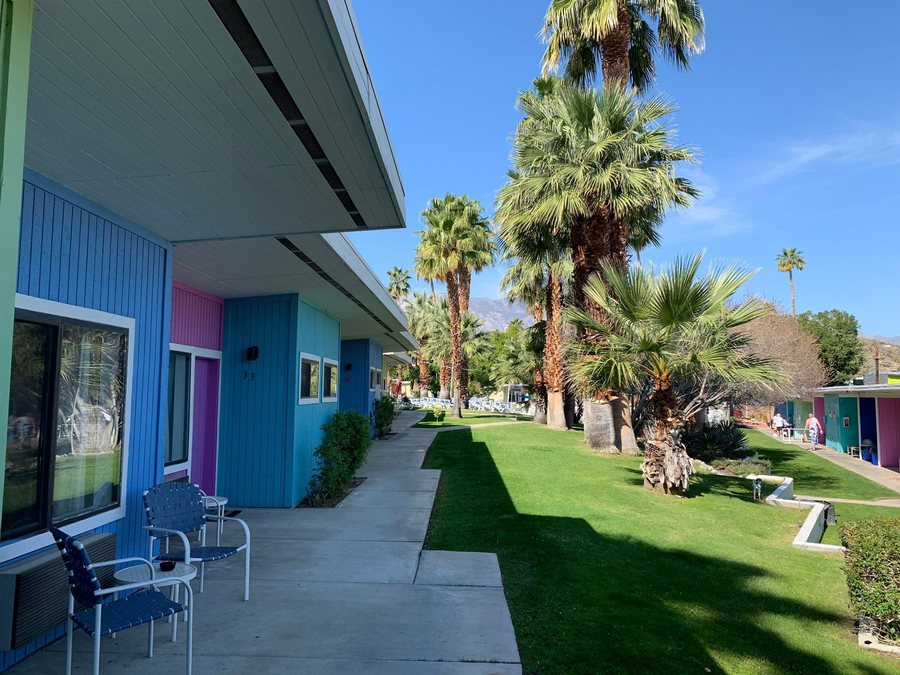
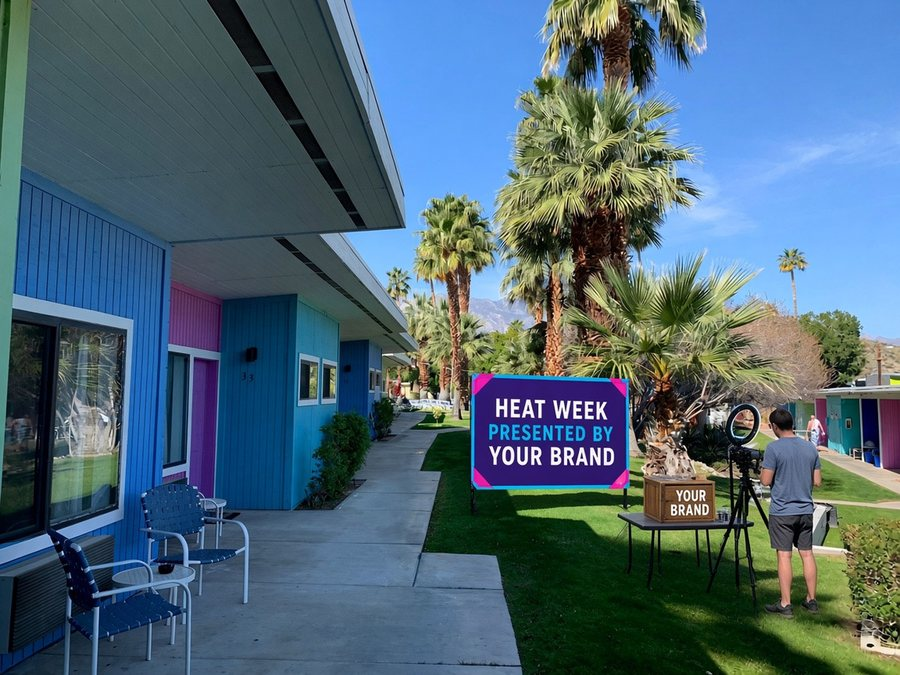
Replace the static site with the updated build.
Swap index.html and assets for the new zip, drop files that are no longer in it, and leave .nojekyll and README.md in place.

diff --git a/index.html b/index.html
@@ -249,13 +249,13 @@ tbody tr:last-child td,tbody tr:last-child th{font-weight:700;color:var(--cyan)}
 <p class="hero-sup">Presented by DucatiX. Built for partners who want to be seen by fans at the party, and by creators during the residency that follows.</p>
 <div class="cta-row"><a class="btn btn-pd" href="#inquire">Request a partnership deck</a><a class="btn btn-ghost" href="#tiers">See the tiers</a></div>
 <p class="venue-line">CCBC Resort Hotel · Palm Springs, CA</p></div>
-<figure class="hero-art"><img src="assets/hero.jpg" alt="Split key art: neon Porn Disco pool party at night beside a sunlit Heat Week desert pool, with both date ranges" width="1280" height="504"></figure>
+<figure class="hero-art"><img src="assets/hero.jpg" alt="Porn Disco plus Heat Week banner: Sean Xavier, Beau Butler, Rocky Unleashed and Jaxx Cody in front of creator silhouettes" width="1280" height="720"></figure>
 </div></section>
 <section class="photostrip" aria-label="CCBC Resort Hotel photos"><div class="strip-row"><figure><img src="assets/ccbc_expedia_01.jpg" alt="CCBC Resort Hotel: the pool after dark" loading="lazy"><figcaption>The pool after dark</figcaption></figure><figure><img src="assets/ccbc_expedia_03.jpg" alt="CCBC Resort Hotel: neon palms" loading="lazy"><figcaption>Neon palms</figcaption></figure><figure><img src="assets/ccbc_expedia_06.jpg" alt="CCBC Resort Hotel: the lawn at night" loading="lazy"><figcaption>The lawn at night</figcaption></figure><figure><img src="assets/ccbc_expedia_04.jpg" alt="CCBC Resort Hotel: runway bar" loading="lazy"><figcaption>Runway Bar</figcaption></figure><figure><img src="assets/ccbc_expedia_07.jpg" alt="CCBC Resort Hotel: lit up till late" loading="lazy"><figcaption>Lit up till late</figcaption></figure><figure><img src="assets/ccbc_expedia_02.jpg" alt="CCBC Resort Hotel: garden paths" loading="lazy"><figcaption>Garden paths</figcaption></figure></div><p class="strip-note">Real photos of CCBC Resort Hotel, Palm Springs, after dark</p></section>
 <section id="events" class="section"><div class="wrap"><p class="eyebrow">Two moments, kept distinct</p>
 <h2>A weekend the fans feel.<br>A week the industry works.</h2><p class="section-lede">Porn Disco and Heat Week share a resort and a week. They are not the same event, and they are not sold as one blur.</p>
 <div class="duo">
-<article class="event event-pd"><figure class="event-photo"><img src="assets/ccbc_expedia_01.jpg" alt="CCBC pool at night with the neon CCBC sign and lit palms" loading="lazy" style="object-position:center 65%"></figure><div class="event-top"><span class="tag">B2C · Pool party + nightlife</span><h3>Porn Disco</h3><p class="event-dates">Friday, March 5 to Sunday, March 7, 2027</p></div>
+<article class="event event-pd"><figure class="event-photo"><img src="assets/night_pool_branded.jpg" alt="CCBC pool at night with sponsor banners and the neon CCBC sign" loading="lazy" style="object-position:center 60%"></figure><div class="event-top"><span class="tag">B2C · Pool party + nightlife</span><h3>Porn Disco</h3><p class="event-dates">Friday, March 5 to Sunday, March 7, 2027</p></div>
 <p><strong>Porn Disco</strong> is the fan-facing party. Friday, March 5 to Sunday, March 7, 2027, at CCBC Resort Hotel, a clothing-optional gay resort in Palm Springs. This is the public pool party and night-life weekend: a Meat &amp; Greet kickoff, foam and pool, a DJ, live shows, and late-night energy that runs from day into night. It is where fans meet the talent, and where a brand can live on the grounds, on the stage, and in the content that leaves the party.</p><ul class="ticks"><li>Fans meet the talent</li><li>Foam, pool, DJ and live shows</li><li>Day-into-night energy</li></ul></article>
 <article class="event event-hw"><figure class="event-photo"><img src="assets/ccbc_expedia_13.jpg" alt="Pink CCBC guest room exterior with a patio" loading="lazy"></figure><div class="event-top"><span class="tag">B2B · Creator residency + collab house</span><h3>Heat Week</h3><p class="event-dates">Monday, March 8 to Friday, March 12, 2027</p></div>
 <p><strong>Heat Week</strong> is the industry week that follows. Monday, March 8 to Friday, March 12, 2027, at the same resort. This is a creator residency and collab house: a hosted group of performers staying at the resort, filming throughout the property, and a quieter, more useful week for brands that want creator access, on-site production, and recruitment, not just a logo on a banner.</p><ul class="ticks"><li>Creator access</li><li>On-site production</li><li>Recruitment</li></ul></article>
@@ -264,11 +264,11 @@ tbody tr:last-child td,tbody tr:last-child th{font-weight:700;color:var(--cyan)}
 </div></section>
 <section id="own" class="section section-own"><div class="wrap"><p class="eyebrow">Where your brand lives</p><h2>What your brand can own</h2><p class="section-lede">24 ways in, across the party weekend, the creator week and every morning in between. Each one comes with its own placement at CCBC.</p>
 <div class="own-group own-party"><div class="own-head"><h3>At the Party</h3><span class="own-dates">Porn Disco · Fri Mar 5 to Sun Mar 7</span><span class="own-count">16 activations</span></div><div class="own-grid">
-<article class="act"><figure><img src="assets/act_01.jpg" alt="Meet the Stars photo booth: CCBC Resort Hotel" loading="lazy"><span class="act-n">01</span></figure><div class="act-copy"><h4>Meet the Stars photo booth</h4><p class="act-desc">Your logo in every fan photo with the talent at the Friday Meat &amp; Greet.</p><p class="act-feel">Fans lined up, phones out, stars grinning beside your logo.</p></div></article>
+<article class="act"><figure><img src="assets/act_01.jpg" alt="Meet the Stars photo booth: branded placement at CCBC" loading="lazy"><span class="act-n">01</span></figure><div class="act-copy"><h4>Meet the Stars photo booth</h4><p class="act-desc">Your logo in every fan photo with the talent at the Friday Meat &amp; Greet.</p><p class="act-feel">Fans lined up, phones out, stars grinning beside your logo.</p></div></article>
 <article class="act"><figure><img src="assets/act_02.jpg" alt="Meat &amp; Greet step and repeat: CCBC Resort Hotel" loading="lazy"><span class="act-n">02</span></figure><div class="act-copy"><h4>Meat &amp; Greet step and repeat</h4><p class="act-desc">Your brand behind the talent the moment the weekend opens.</p><p class="act-feel">Flashbulbs, first looks, the weekend officially starts in front of your wall.</p></div></article>
 <article class="act"><figure><img src="assets/act_03.jpg" alt="Early-entry Meat &amp; Greet: CCBC Resort Hotel" loading="lazy"><span class="act-n">03</span></figure><div class="act-copy"><h4>Early-entry Meat &amp; Greet</h4><p class="act-desc">Host the VIP early entry, so fans meet the stars through your brand first.</p><p class="act-feel">The gate opens early and your VIPs walk in first, wristbands on.</p></div></article>
-<article class="act"><figure><img src="assets/act_04.jpg" alt="Pool banners: CCBC Resort Hotel" loading="lazy"><span class="act-n">04</span></figure><div class="act-copy"><h4>Pool banners</h4><p class="act-desc">Your logo around the pool all day, in every shot of the crowd.</p><p class="act-feel">Sun, skin and splash, with your logo framing every pool shot.</p></div></article>
-<article class="act"><figure><img src="assets/act_05.jpg" alt="Go-go boxes: CCBC Resort Hotel" loading="lazy"><span class="act-n">05</span></figure><div class="act-copy"><h4>Go-go boxes</h4><p class="act-desc">Your brand under the dancers, at the center of the action.</p><p class="act-feel">Dancers above the crowd, all eyes up, your brand right underneath.</p></div></article>
+<article class="act"><figure><img src="assets/act_04.jpg" alt="Pool banners: branded placement at CCBC" loading="lazy"><span class="act-n">04</span></figure><div class="act-copy"><h4>Pool banners</h4><p class="act-desc">Your logo around the pool all day, in every shot of the crowd.</p><p class="act-feel">Sun, skin and splash, with your logo framing every pool shot.</p></div></article>
+<article class="act"><figure><img src="assets/act_05.jpg" alt="Go-go boxes: branded placement at CCBC" loading="lazy"><span class="act-n">05</span></figure><div class="act-copy"><h4>Go-go boxes</h4><p class="act-desc">Your brand under the dancers, at the center of the action.</p><p class="act-feel">Dancers above the crowd, all eyes up, your brand right underneath.</p></div></article>
 <article class="act"><figure><img src="assets/act_06.jpg" alt="DJ booth: CCBC Resort Hotel" loading="lazy"><span class="act-n">06</span></figure><div class="act-copy"><h4>DJ booth</h4><p class="act-desc">Your name on the booth that runs the night.</p><p class="act-feel">Bass drops, hands up, your name lit behind the DJ.</p></div></article>
 <article class="act"><figure><img src="assets/act_07.jpg" alt="Live shows and product demos: CCBC Resort Hotel" loading="lazy"><span class="act-n">07</span></figure><div class="act-copy"><h4>Live shows and product demos</h4><p class="act-desc">Your product on stage in front of the crowd.</p><p class="act-feel">The crowd pushes close as your product goes live on stage.</p></div></article>
 <article class="act"><figure><img src="assets/act_08.jpg" alt="Branded shot bartenders: CCBC Resort Hotel" loading="lazy"><span class="act-n">08</span></figure><div class="act-copy"><h4>Branded shot bartenders</h4><p class="act-desc">Your brand served hand to hand, all party long.</p><p class="act-feel">A shirtless bartender, a tray of shots, a cheer every round.</p></div></article>
@@ -276,13 +276,13 @@ tbody tr:last-child td,tbody tr:last-child th{font-weight:700;color:var(--cyan)}
 <article class="act"><figure><img src="assets/act_10.jpg" alt="VIP lounge and Runway Bar: CCBC Resort Hotel" loading="lazy"><span class="act-n">10</span></figure><div class="act-copy"><h4>VIP lounge and Runway Bar</h4><p class="act-desc">Your brand on the spaces where talent and VIPs hang out.</p><p class="act-feel">The talent&#x27;s private corner, with your brand on the bar.</p></div></article>
 <article class="act"><figure><img src="assets/act_11.jpg" alt="Live cam suite takeover: CCBC Resort Hotel" loading="lazy"><span class="act-n">11</span></figure><div class="act-copy"><h4>Live cam suite takeover</h4><p class="act-desc">A branded suite broadcasting live from the party all weekend.</p><p class="act-feel">On air from the party, with fans online watching the weekend through your suite.</p></div></article>
 <article class="act"><figure><img src="assets/act_12.jpg" alt="Themed branded rooms: CCBC Resort Hotel" loading="lazy"><span class="act-n">12</span></figure><div class="act-copy"><h4>Themed branded rooms</h4><p class="act-desc">A whole room built around your brand.</p><p class="act-feel">Guests walk in and they&#x27;re inside your brand.</p></div></article>
-<article class="act"><figure><img src="assets/act_13.jpg" alt="In-room TVs: CCBC Resort Hotel" loading="lazy"><span class="act-n">13</span></figure><div class="act-copy"><h4>In-room TVs</h4><p class="act-desc">Your ad playing in guest rooms all weekend.</p><p class="act-feel">Back in the room, your ad is the first thing on screen.</p></div></article>
+<article class="act"><figure><img src="assets/act_13.jpg" alt="In-room TVs: branded placement at CCBC" loading="lazy"><span class="act-n">13</span></figure><div class="act-copy"><h4>In-room TVs</h4><p class="act-desc">Your ad playing in guest rooms all weekend.</p><p class="act-feel">Back in the room, your ad is the first thing on screen.</p></div></article>
 <article class="act"><figure><img src="assets/act_14.jpg" alt="Room gifts: CCBC Resort Hotel" loading="lazy"><span class="act-n">14</span></figure><div class="act-copy"><h4>Room gifts</h4><p class="act-desc">Your product waiting in guest rooms.</p><p class="act-feel">Your gift is waiting on the pillow when they check in.</p></div></article>
 <article class="act"><figure><img src="assets/act_15.jpg" alt="Sponsor booths: CCBC Resort Hotel" loading="lazy"><span class="act-n">15</span></figure><div class="act-copy"><h4>Sponsor booths</h4><p class="act-desc">Your own space on the grounds to meet guests face to face.</p><p class="act-feel">A meet-up spot on the grounds where guests stop to talk.</p></div></article>
 <article class="act"><figure><img src="assets/act_16.jpg" alt="Travel and bathhouse activations: CCBC Resort Hotel" loading="lazy"><span class="act-n">16</span></figure><div class="act-copy"><h4>Travel and bathhouse activations</h4><p class="act-desc">Packages and perks that bring guests to Palm Springs and keep the night going.</p><p class="act-feel">Guests come for the party, stay for the trip, and end the night at the bathhouse.</p></div></article>
 </div></div>
 <div class="own-group own-hw"><div class="own-head"><h3>At Heat Week</h3><span class="own-dates">Heat Week · Mon Mar 8 to Fri Mar 12</span><span class="own-count">7 activations</span></div><div class="own-grid">
-<article class="act"><figure><img src="assets/act_17.jpg" alt="Residency sponsorship: CCBC Resort Hotel" loading="lazy"><span class="act-n">17</span></figure><div class="act-copy"><h4>Residency sponsorship</h4><p class="act-desc">Your name on a week of 15+ creators living and working at the resort.</p><p class="act-feel">Fifteen creators, one week, your name over all of it.</p></div></article>
+<article class="act"><figure><img src="assets/act_17.jpg" alt="Residency sponsorship: branded placement at CCBC" loading="lazy"><span class="act-n">17</span></figure><div class="act-copy"><h4>Residency sponsorship</h4><p class="act-desc">Your name on a week of 15+ creators living and working at the resort.</p><p class="act-feel">Fifteen creators, one week, your name over all of it.</p></div></article>
 <article class="act"><figure><img src="assets/act_18.jpg" alt="Product in creator content: CCBC Resort Hotel" loading="lazy"><span class="act-n">18</span></figure><div class="act-copy"><h4>Product in creator content</h4><p class="act-desc">Your product in the content made on site, filmed throughout the property.</p><p class="act-feel">Cameras roll across the resort and your product is in frame.</p></div></article>
 <article class="act"><figure><img src="assets/act_19.jpg" alt="Recruiting and onboarding: CCBC Resort Hotel" loading="lazy"><span class="act-n">19</span></figure><div class="act-copy"><h4>Recruiting and onboarding</h4><p class="act-desc">Time with creators on site to sign them to your platform.</p><p class="act-feel">Coffee, poolside and real conversations that end in sign-ups.</p></div></article>
 <article class="act"><figure><img src="assets/act_20.jpg" alt="Live cam suites: CCBC Resort Hotel" loading="lazy"><span class="act-n">20</span></figure><div class="act-copy"><h4>Live cam suites</h4><p class="act-desc">A broadcast residency, with creators streaming from the resort all week.</p><p class="act-feel">Lights on, creators live from the resort all week.</p></div></article>
@@ -291,10 +291,10 @@ tbody tr:last-child td,tbody tr:last-child th{font-weight:700;color:var(--cyan)}
 <article class="act"><figure><img src="assets/act_23.jpg" alt="Heat Week partner list: CCBC Resort Hotel" loading="lazy"><span class="act-n">23</span></figure><div class="act-copy"><h4>Heat Week partner list</h4><p class="act-desc">Your logo on the official partner list for the week.</p><p class="act-feel">Your logo on the wall every creator walks past.</p></div></article>
 </div></div>
 <div class="own-group own-week"><div class="own-head"><h3>Across the week</h3><span class="own-dates">Mar 5 to 12</span><span class="own-count">1 activation</span></div><div class="own-grid">
-<article class="act"><figure><img src="assets/act_24.jpg" alt="Naked Pornstar Morning Yoga: CCBC Resort Hotel" loading="lazy"><span class="act-n">24</span></figure><div class="act-copy"><h4>Naked Pornstar Morning Yoga</h4><p class="act-desc">A named morning session your brand presents.</p><p class="act-feel">Sunrise on the lawn, mats down, a naked class under your banner.</p></div></article>
+<article class="act"><figure><img src="assets/act_24.jpg" alt="Naked Pornstar Morning Yoga: branded placement at CCBC" loading="lazy"><span class="act-n">24</span></figure><div class="act-copy"><h4>Naked Pornstar Morning Yoga</h4><p class="act-desc">A named morning session your brand presents.</p><p class="act-feel">Sunrise on the lawn, mats down, a naked class under your banner.</p></div></article>
 </div></div>
-<p class="fineprint">Sponsor placements show YOUR LOGO HERE until a partner signs.</p></div></section>
-<section id="tiers" class="section section-photo" style="--bg:url(assets/ccbc_expedia_01.jpg)"><div class="wrap"><p class="eyebrow">Partnership levels</p><h2>Partnership tiers</h2><p class="section-lede">One exclusive Platinum. Two Gold. Silver and Bronze stay open so more than one partner can come in at those levels.</p><div class="tiers">
+<p class="fineprint">Sponsor placements show placeholder branding until a partner signs.</p></div></section>
+<section id="tiers" class="section section-photo" style="--bg:url(assets/night_pool_branded.jpg)"><div class="wrap"><p class="eyebrow">Partnership levels</p><h2>Partnership tiers</h2><p class="section-lede">One exclusive Platinum. Two Gold. Silver and Bronze stay open so more than one partner can come in at those levels.</p><div class="tiers">
 <article class="tier tier-platinum"><div class="tier-head"><h3>Platinum</h3><span class="slots">1 partner</span></div>
 <p class="price">$12,000 to $15,000</p><p class="cov cov-both">Both events</p><p>The presenting partner for the week. Category exclusivity at the top of the house. Title or stage presence, the strongest on-site footprint, in-room TVs playing sponsor ads all weekend, a branded room, room gift placement, and first right to the largest activations. Runs across both Porn Disco and Heat Week.</p></article>
 <article class="tier tier-gold"><div class="tier-head"><h3>Gold</h3><span class="slots">2 partners</span></div>
@@ -318,13 +318,13 @@ tbody tr:last-child td,tbody tr:last-child th{font-weight:700;color:var(--cyan)}
 <tr><th scope="row">Event coverage</th><td>Both events</td><td>Both events</td><td>Your choice of Porn Disco or Heat Week</td><td>Your choice of Porn Disco or Heat Week</td></tr>
 </tbody></table></div></details>
 </div></section>
-<section id="talent" class="section section-alt"><div class="wrap"><p class="eyebrow">Faces of the week</p><h2>The faces of the week</h2>
+<section id="talent" class="section section-alt"><div class="wrap"><p class="eyebrow">Faces of the week</p><h2></h2>
 <div class="crowd-head"><p class="crowd-n"><span>15+</span>creators on site all week</p><p class="section-lede">From the Friday Meat &amp; Greet through the last day of Heat Week, a working group of 15+ creators stays at the resort. They party with the fans over the weekend, then make content across the property all week. The four poster boys lead the lineup.</p></div>
 <p class="sub-eyebrow">Headliners</p>
 <div class="posters"><figure class="poster"><img src="assets/poster2_sean_xavier.jpg" alt="Porn Disco 2027 poster: Sean Xavier, poster boy" loading="lazy" width="864" height="864"><figcaption><span class="pname">Sean Xavier</span></figcaption></figure><figure class="poster"><img src="assets/poster2_beau_butler.jpg" alt="Porn Disco 2027 poster: Beau Butler, poster boy" loading="lazy" width="864" height="864"><figcaption><span class="pname">Beau Butler</span></figcaption></figure><figure class="poster"><img src="assets/poster2_jaxx_cody.jpg" alt="Porn Disco 2027 poster: Jaxx Cody, poster boy" loading="lazy" width="864" height="864"><figcaption><span class="pname">Jaxx Cody</span></figcaption></figure><figure class="poster"><img src="assets/poster2_rocky_unleashed.jpg" alt="Porn Disco 2027 poster: Rocky Unleashed, poster boy" loading="lazy" width="864" height="864"><figcaption><span class="pname">Rocky Unleashed</span></figcaption></figure></div>
 <p class="sub-eyebrow">The rest of the house</p>
 <div class="crowd" aria-label="More creators to be announced"><div class="sil"><svg viewBox="0 0 100 100" aria-hidden="true" focusable="false"><circle cx="50" cy="34" r="17"/><path d="M14 100c0-24 16-40 36-40s36 16 36 40z"/></svg><span>To be announced</span></div><div class="sil"><svg viewBox="0 0 100 100" aria-hidden="true" focusable="false"><circle cx="50" cy="34" r="17"/><path d="M14 100c0-24 16-40 36-40s36 16 36 40z"/></svg><span>To be announced</span></div><div class="sil"><svg viewBox="0 0 100 100" aria-hidden="true" focusable="false"><circle cx="50" cy="34" r="17"/><path d="M14 100c0-24 16-40 36-40s36 16 36 40z"/></svg><span>To be announced</span></div><div class="sil"><svg viewBox="0 0 100 100" aria-hidden="true" focusable="false"><circle cx="50" cy="34" r="17"/><path d="M14 100c0-24 16-40 36-40s36 16 36 40z"/></svg><span>To be announced</span></div><div class="sil"><svg viewBox="0 0 100 100" aria-hidden="true" focusable="false"><circle cx="50" cy="34" r="17"/><path d="M14 100c0-24 16-40 36-40s36 16 36 40z"/></svg><span>To be announced</span></div><div class="sil"><svg viewBox="0 0 100 100" aria-hidden="true" focusable="false"><circle cx="50" cy="34" r="17"/><path d="M14 100c0-24 16-40 36-40s36 16 36 40z"/></svg><span>To be announced</span></div><div class="sil"><svg viewBox="0 0 100 100" aria-hidden="true" focusable="false"><circle cx="50" cy="34" r="17"/><path d="M14 100c0-24 16-40 36-40s36 16 36 40z"/></svg><span>To be announced</span></div><div class="sil"><svg viewBox="0 0 100 100" aria-hidden="true" focusable="false"><circle cx="50" cy="34" r="17"/><path d="M14 100c0-24 16-40 36-40s36 16 36 40z"/></svg><span>To be announced</span></div><div class="sil"><svg viewBox="0 0 100 100" aria-hidden="true" focusable="false"><circle cx="50" cy="34" r="17"/><path d="M14 100c0-24 16-40 36-40s36 16 36 40z"/></svg><span>To be announced</span></div><div class="sil"><svg viewBox="0 0 100 100" aria-hidden="true" focusable="false"><circle cx="50" cy="34" r="17"/><path d="M14 100c0-24 16-40 36-40s36 16 36 40z"/></svg><span>To be announced</span></div><div class="sil"><svg viewBox="0 0 100 100" aria-hidden="true" focusable="false"><circle cx="50" cy="34" r="17"/><path d="M14 100c0-24 16-40 36-40s36 16 36 40z"/></svg><span>To be announced</span></div><div class="sil sil-more"><b>+ more</b><span>Names announced soon</span></div></div>
-<div class="talent-notes"><p>2022 Meat &amp; Greet talent included Beau Butler, Devin Franco, Grant Ducati, Michael Boston, Drew Sebastian, and Roman Todd</p><p>Heat Week puts talent in house for several days of shooting, not only for a single party appearance</p></div>
+<div class="talent-notes"><p>2022 Meat &amp; Greet talent included Beau Butler, Devin Franco, Grant Ducati, Michael Boston, Drew Sebastian, and Roman Todd</p><p>Heat Week brings a wider group of creators in house at the resort for the week, making content, not only a single party appearance</p></div>
 <p class="fineprint">Talent subject to final confirmation. More names announced soon.</p></div></section>
 <section id="venue" class="section"><div class="wrap"><p class="eyebrow">The venue</p><h2>CCBC Resort Hotel, Palm Springs</h2>
 <p class="section-lede">A clothing-optional gay resort in Palm Springs. One property for both moments: the pool deck and lawn carry the Porn Disco weekend, and during Heat Week filming happens throughout the property: the pool, the lawn, guest rooms and suites.</p>
